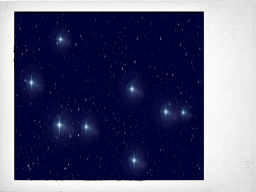
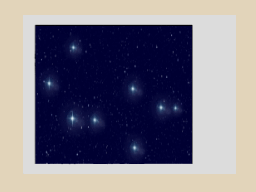
First message + stars picture

diff --git a/source/Game.c b/source/Game.c
@@ -58,47 +58,44 @@ bool play_MenuStart(){
  * Define the game corresponding to Room1
  */
 bool play_Room1(){
+	//Code to exit the room
+	int code_door[5] = {0, 7, 7, 3, 11};
+	int code_trap[5] = {3, 8, 10, 4, 2};
 
-	int view_speed = 5;
+	//Declare objects that can be touche
 	struct Object obj[NUM_OF_OBJECT];
+	object_type obj_touched = none;
+	configure_objects(obj);
 
 	//Declare a touchPosition variable
 	touchPosition touch;
 
-	bool add_display = false;
+	//See the map's sprite
+	bool hide_sprite = false;
 
-	object_type obj_touched = none;
+	//Speed when scrolling the map of the sub engine
+	int view_speed = 5;
 
-	configure_objects(obj);
-
-	//SOUND
 	//Init the sound library
 	mmInitDefaultMem((mm_addr)soundbank_bin);
 	//Load module
 	mmLoad(MOD_GAME);
 	//Load effect
 	mmLoadEffect(SFX_MORSECODE);
-	/*MUSIC STARTS*/
+	//Start sound of the game
 	mmStart(MOD_GAME,MM_PLAY_LOOP);
-
-	//Reset min, sec, msec and reset the timer that count the play time
-	min=0;	sec=0;	msec=0;
-	irqEnable(IRQ_TIMER1);
 
 	//Pixel shifts for the initial position of the background
 	bg_h = 255;
 	bg_v = 64;
 
 	//At the beginning, it's impossible to move background_room1
-
-	bool door_unlocked = false; // TRUE FOR THE DEBUG
+	bool door_unlocked = false;
 	bool trap_unlocked = false;
 
 	while(true){
 		//Scan the keys and identify which key is held
 		scanKeys();
-
-
 		u16 keys = keysHeld();
 
 		//Read the touchscreen
@@ -127,7 +124,6 @@ bool play_Room1(){
 				bg_h+=view_speed;
 			}
 		}
-
 		// Limit the shift according to the size of the background
 		if(bg_h < 0) 	bg_h = 0;
 		if(bg_h > 255)	bg_h = 255;
@@ -136,22 +132,9 @@ bool play_Room1(){
 
 		//The Key A hide the additionnal information pop-up in the screens
 		if(keys & KEY_X ){
-			add_display = false;
-			//Hide BG2 and show BG3 for the MAIN engine
-			//BGCTRL[2] = (BGCTRL[2] & 0xFFFC) | 0;
-			//BGCTRL[3] = (BGCTRL[3] & 0xFFFC) | 1;
-
-			BGCTRL[0] = (BGCTRL[0] & 0xFFFC) | 0;
-			BGCTRL[1] = (BGCTRL[1] & 0xFFFC) | 1;
-			BGCTRL[2] = (BGCTRL[2] & 0xFFFC) | 2;
-			BGCTRL[3] = (BGCTRL[3] & 0xFFFC) | 3;
-
-			//Hide BG2 and show BG0 for the SUB engine
-			swiCopy(background_room1Pal, BG_PALETTE_SUB, background_room1PalLen/2);
-			BGCTRL_SUB[0] = (BGCTRL_SUB[0] & 0xFFFC) | 0;
-			BGCTRL_SUB[2] = (BGCTRL_SUB[2] & 0xFFFC) | 1;
+			hide_sprite = false;
+			reset_room1_gfx();
 		}
-
 		if(keys & KEY_START){
 			return false;
 		}
@@ -160,6 +143,16 @@ bool play_Room1(){
 		if(touch.px | touch.py){
 			obj_touched = object_touched(obj, touch.px+bg_h, touch.py+bg_v);
 			switch(obj_touched){
+				case first_msg: {
+					hide_sprite = true;
+					display_first_msg();
+					break;
+				}
+				case stars: {
+					hide_sprite = true;
+					display_stars();
+					break;
+				}
 				case hotpot: {
 					play_hotpot();
 					break;
@@ -169,55 +162,21 @@ bool play_Room1(){
 					break;
 				}
 				case card: {
-					add_display = true;
-					play_card();
+					hide_sprite = true;
+					display_morse();
 					break;
 				}
 				case door: {
 					if(!door_unlocked){
-						int code_door[5] = {0, 7, 7, 3, 11};
 						door_unlocked = play_locker(code_door);
-
-						// Pallette of the background was overwritten by the carrots BG
-						swiCopy(background_room1_mainPal, BG_PALETTE, background_room1_mainPalLen/2);
-
-						//Configure BG0 in tile mode for background_room1_main (don't overlap digits)
-						BGCTRL[0] = BG_32x32 | BG_COLOR_256 | BG_MAP_BASE(21) | BG_TILE_BASE(2);
-
-						// Assign priority to display BG0
-						BGCTRL[0] = (BGCTRL[0] & 0xFFFC) | 0;
-						BGCTRL[1] = (BGCTRL[1] & 0xFFFC) | 1;
-						BGCTRL[2] = (BGCTRL[2] & 0xFFFC) | 2;
-						BGCTRL[3] = (BGCTRL[3] & 0xFFFC) | 3;
-
-						//Hide BG2 and show BG0 for the SUB engine
-						swiCopy(background_room1Pal, BG_PALETTE_SUB, background_room1PalLen/2);
-						BGCTRL_SUB[0] = (BGCTRL_SUB[0] & 0xFFFC) | 0;
-						BGCTRL_SUB[2] = (BGCTRL_SUB[2] & 0xFFFC) | 1;
+						reset_room1_gfx();
 					}
 					break;
 				}
 				case trap: {
 					if(!trap_unlocked){
-						int code_trap[5] = {3, 7, 10, 4, 2};
 						trap_unlocked = play_locker(code_trap);
-
-						// Pallette of the background was overwritten by the carrots BG
-						swiCopy(background_room1_mainPal, BG_PALETTE, background_room1_mainPalLen/2);
-
-						//Configure BG0 in tile mode for background_room1_main (don't overlap digits)
-						BGCTRL[0] = BG_32x32 | BG_COLOR_256 | BG_MAP_BASE(21) | BG_TILE_BASE(2);
-
-						// Assign priority to display BG0
-						BGCTRL[0] = (BGCTRL[0] & 0xFFFC) | 0;
-						BGCTRL[1] = (BGCTRL[1] & 0xFFFC) | 1;
-						BGCTRL[2] = (BGCTRL[2] & 0xFFFC) | 2;
-						BGCTRL[3] = (BGCTRL[3] & 0xFFFC) | 3;
-
-						//Hide BG2 and show BG0 for the SUB engine
-						swiCopy(background_room1Pal, BG_PALETTE_SUB, background_room1PalLen/2);
-						BGCTRL_SUB[0] = (BGCTRL_SUB[0] & 0xFFFC) | 0;
-						BGCTRL_SUB[2] = (BGCTRL_SUB[2] & 0xFFFC) | 1;
+						reset_room1_gfx();
 					}
 					break;
 				}
@@ -238,7 +197,7 @@ bool play_Room1(){
     		gfx,			// Loaded graphic to display
     		-1,				// Affine rotation to use (-1 none)
     		false,			// Double size if rotating
-    		add_display,	// Hide this sprite
+    		hide_sprite,	// Hide this sprite
     		false, false,	// Horizontal or vertical flip
     		false			// Mosaic
     		);

diff --git a/source/Graphics.c b/source/Graphics.c
@@ -2,6 +2,8 @@
 #include <stdio.h>
 
 #include "Graphics.h"
+#include "first_msg.h"
+#include "stars.h"
 #include "carrot_back.h"
 #include "carrot_middle.h"
 #include "carrot_center.h"
@@ -143,6 +145,84 @@ void configure_room1_gfx(){
 	// BOTTOM LEFT quadrant of the image in third map base
 	//for(i=0; i<32; i++)
 		//dmaCopy(&mergedsub_room1Map[(i+64)*64], &BG_MAP_RAM_SUB(4)[i*32], 64);
+}
+
+/*
+ * reset the graphics settings for the Room1
+ */
+void reset_room1_gfx(){
+	// Pallette of the background was overwritten by the carrots BG
+	swiCopy(background_room1_mainPal, BG_PALETTE, background_room1_mainPalLen/2);
+
+	//Configure BG0 in tile mode for background_room1_main (don't overlap digits)
+	BGCTRL[0] = BG_32x32 | BG_COLOR_256 | BG_MAP_BASE(21) | BG_TILE_BASE(2);
+
+	// Assign priority to display BG0
+	BGCTRL[0] = (BGCTRL[0] & 0xFFFC) | 0;
+	BGCTRL[1] = (BGCTRL[1] & 0xFFFC) | 1;
+	BGCTRL[2] = (BGCTRL[2] & 0xFFFC) | 2;
+	BGCTRL[3] = (BGCTRL[3] & 0xFFFC) | 3;
+
+	//Hide BG2 and show BG0 for the SUB engine
+	swiCopy(background_room1Pal, BG_PALETTE_SUB, background_room1PalLen/2);
+	BGCTRL_SUB[0] = (BGCTRL_SUB[0] & 0xFFFC) | 0;
+	BGCTRL_SUB[2] = (BGCTRL_SUB[2] & 0xFFFC) | 1;
+
+}
+/*
+ * Configure the graphics settings in order to display the first message
+ */
+void display_first_msg(){
+	/*
+	 * As a remind, BG0 is used to display background_room1_main.png on the MAIN.
+	 * So, we just have to configure BG3.
+	 */
+
+	//morse in VRAM B just after the tile
+	BGCTRL[3] = BG_BMP_BASE(8) | BgSize_B16_256x256;
+
+    //Affine Marix Transformation
+    REG_BG3PA = 256;
+	REG_BG3PC = 0;
+	REG_BG3PB = 0;
+	REG_BG3PD = 256;
+
+	swiCopy(first_msgBitmap, BG_BMP_RAM(8), first_msgBitmapLen/2);
+
+	//Assign priority to display (BG3) on the MAIN
+	BGCTRL[0] = (BGCTRL[0] & 0xFFFC) | 3;
+	BGCTRL[1] = (BGCTRL[1] & 0xFFFC) | 2;
+	BGCTRL[2] = (BGCTRL[2] & 0xFFFC) | 1;
+	BGCTRL[3] = (BGCTRL[3] & 0xFFFC) | 0;
+
+}
+
+/*
+ * Configure the graphics settings in order to display the stars picture
+ */
+void display_stars(){
+	/*
+	 * As a remind, BG0 is used to display background_room1_main.png on the MAIN.
+	 * So, we just have to configure BG3.
+	 */
+
+	//morse in VRAM B just after the tile
+	BGCTRL[3] = BG_BMP_BASE(8) | BgSize_B16_256x256;
+
+    //Affine Marix Transformation
+    REG_BG3PA = 256;
+	REG_BG3PC = 0;
+	REG_BG3PB = 0;
+	REG_BG3PD = 256;
+
+	swiCopy(starsBitmap, BG_BMP_RAM(8), starsBitmapLen/2);
+
+	//Assign priority to display (BG3) on the MAIN
+	BGCTRL[0] = (BGCTRL[0] & 0xFFFC) | 3;
+	BGCTRL[1] = (BGCTRL[1] & 0xFFFC) | 2;
+	BGCTRL[2] = (BGCTRL[2] & 0xFFFC) | 1;
+	BGCTRL[3] = (BGCTRL[3] & 0xFFFC) | 0;
+
 }
 /*
  * Configure the graphics settings in order to display the hot pot

diff --git a/source/object_room1.c b/source/object_room1.c
@@ -23,16 +23,28 @@ void configure_objects(struct Object *obj){
 	obj[2].border_down = 250;
 
 	obj[3].which_object = trap;
-	obj[3].border_left = 350;
-	obj[3].border_right = 380;
-	obj[3].border_up = 420;
-	obj[3].border_down = 450;
+	obj[3].border_left = 97;
+	obj[3].border_right = 126;
+	obj[3].border_up = 64;
+	obj[3].border_down = 91;
 
 	obj[4].which_object = hotpot;
 	obj[4].border_left = 234;
 	obj[4].border_right = 246;
 	obj[4].border_up = 164;
 	obj[4].border_down = 170;
+
+	obj[5].which_object = first_msg;
+	obj[5].border_left = 399;
+	obj[5].border_right = 432;
+	obj[5].border_up = 126;
+	obj[5].border_down = 139;
+
+	obj[6].which_object = stars;
+	obj[6].border_left = 121;
+	obj[6].border_right = 138;
+	obj[6].border_up = 297;
+	obj[6].border_down = 306;
 };
 
 object_type object_touched(const struct Object *obj, int x, int y){

diff --git a/source/Graphics.h b/source/Graphics.h
@@ -27,6 +27,21 @@ void configure_MenuStart_gfx();
 void configure_room1_gfx();
 
 /*
+ * reset the graphics settings for the Room1
+ */
+void reset_room1_gfx();
+
+/*
+ * Configure the graphics settings in order to display the first message
+ */
+void display_first_msg();
+
+/*
+ * Configure the graphics settings in order to display the stars picture
+ */
+void display_stars();
+
+/*
  * Configure the graphics settings in order to display the morse map
  */
 void display_morse();

diff --git a/source/object_room1.h b/source/object_room1.h
@@ -8,9 +8,9 @@
 #ifndef OBJECT_ROOM1_H_
 #define OBJECT_ROOM1_H_
 
-#define NUM_OF_OBJECT 5
+#define NUM_OF_OBJECT 7
 
-typedef enum{hotpot, radio, card, door, trap, none}object_type;
+typedef enum{first_msg, stars, hotpot, radio, card, door, trap, none}object_type;
 
 struct Object{
 	object_type which_object;

diff --git a/source/Game_room1.c b/source/Game_room1.c
@@ -95,10 +95,6 @@ void play_radio(){
 	}
 }
 
-void play_card(){
-	display_morse();		//Display the morse-map
-}
-
 bool play_locker(int code[5]){
 	Check check = unknown;
 	oamDisable(&oamMain);	//Disable the sprite
